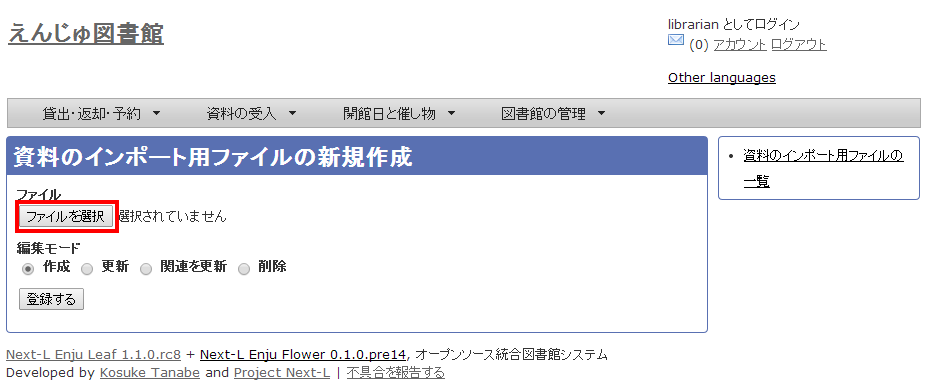
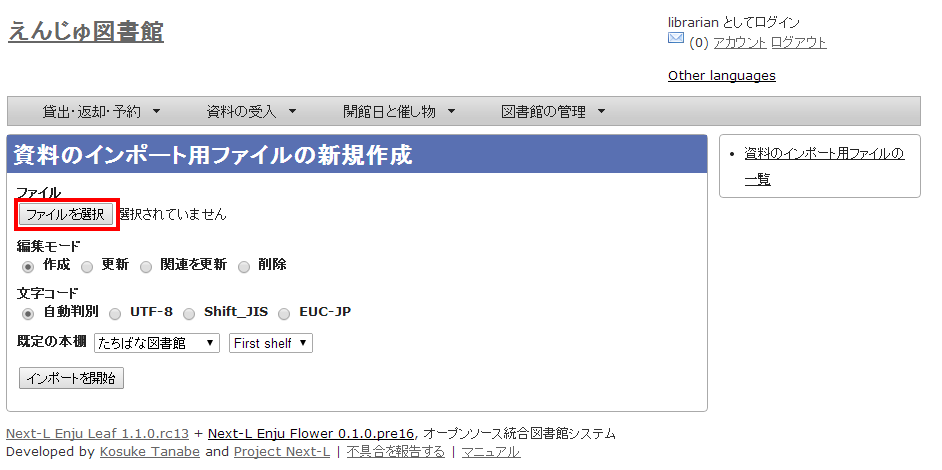
運用マニュアル：TSV書誌インポートについて既定の本棚の記述を追加  #39

diff --git a/_includes/enju_operation/create_manifestation.md b/_includes/enju_operation/create_manifestation.md
@@ -13,15 +13,19 @@
    ![TSVファイルからのインポート](assets/images/image_operation_093.png)
 2. ［ファイルを選択］ボタンをクリックしてインポート用のファイルを選択します。
    ![ファイルを選択](assets/images/image_operation_094.png)
-3. ［編集モード］で［作成］を選択して［登録する］ボタンをクリックします。  
+3. [編集モード]、[文字コード]、[既定の本棚]を選択して［インポートを開始］ボタンをクリックします。  
    ![インポートされる資料のファイルを作成](assets/images/image_operation_095.png)
    
-   <div class="alert alert-info">【Memo】［編集］モードで［更新］を選択すると、TSVファイルで資料の情報をまとめて更新できます。TSVファイルを利用する場合は、更新したい資料の個別資料番号（item_identifier）と更新したいフィールドの内容が記述されたファイルを準備しておきます。また、［削除］を選択すると、TSVファイルで資料の情報をまとめて削除できます。TSVファイルを利用して資料の情報を削除する場合は、削除したい資料の個別資料番号（item_identifier）のみ記述されたファイルを準備しておきます。[関連を更新]とするとxxxxxxxxxxxとなります。
+   <div class="alert alert-info">【Memo】[編集]モードで［更新］を選択すると、TSVファイルで資料の情報をまとめて更新できます。TSVファイルを利用する場合は、更新したい資料の個別資料番号（item_identifier）と更新したいフィールドの内容が記述されたファイルを準備しておきます。また、［削除］を選択すると、TSVファイルで資料の情報をまとめて削除できます。TSVファイルを利用して資料の情報を削除する場合は、削除したい資料の個別資料番号（item_identifier）のみ記述されたファイルを準備しておきます。[関連を更新]とするとxxxxxxxxxxxとなります。
+   </div>
+   <div class="alert alert-info">【Memo】[文字コード]は基本的には自動判別でよいですが、うまくいかない場合は、文字コードを指定するようにしてください。
+   </div>
+   <div class="alert alert-info">【Memo】[既定の本棚]は、TSVファイルに[本棚]を指定しない場合やTSVファイルで不正な本棚を指定していた場合に登録される本棚となります。TSVファイルに正しい[本棚]が指定されていた場合はTSVファイルを優先します。 
    </div>
 
 3. 「資料のインポート用ファイルは正常に作成されました。」のメッセージが表示され、資料のデータインポートの準備が整いました。右の[資料のインポート用ファイルの一覧]をクリックします。
    ![インポート結果](assets/images/image_operation_095_2.png)
-4. 今までのインポート結果の一覧が表示されます。[状態]を見ると処理結果がわかります。インポートが完了したものは[完了]と表示されます。[処理待ち]のものは毎時0分にインポート処理が開始します。
+4. 今までのインポート結果の一覧が表示されます。[状態]を見ると処理結果がわかります。インポートが完了したものは[完了]と表示されます。[処理待ち]のものは現在、実行中です。インポート完了時にはEnjuのメッセージ機能にてお知らせします（＊＊＊というメッセージが送られてきます）。注）Next-L Enju Leaf 1.1.0.rc12以前のバージョンの場合は毎時0分にインポート処理が開始します。
    ![インポート結果の一覧表示](assets/images/image_operation_095_3.png)
 
    <div class="alert alert-info">【Memo】この画面は[資料の受入]メニュー->[TSVファイルからのインポート]->右メニューの[資料のインポート用ファイルの一覧]とすればいつでも閲覧できます。</div> 
